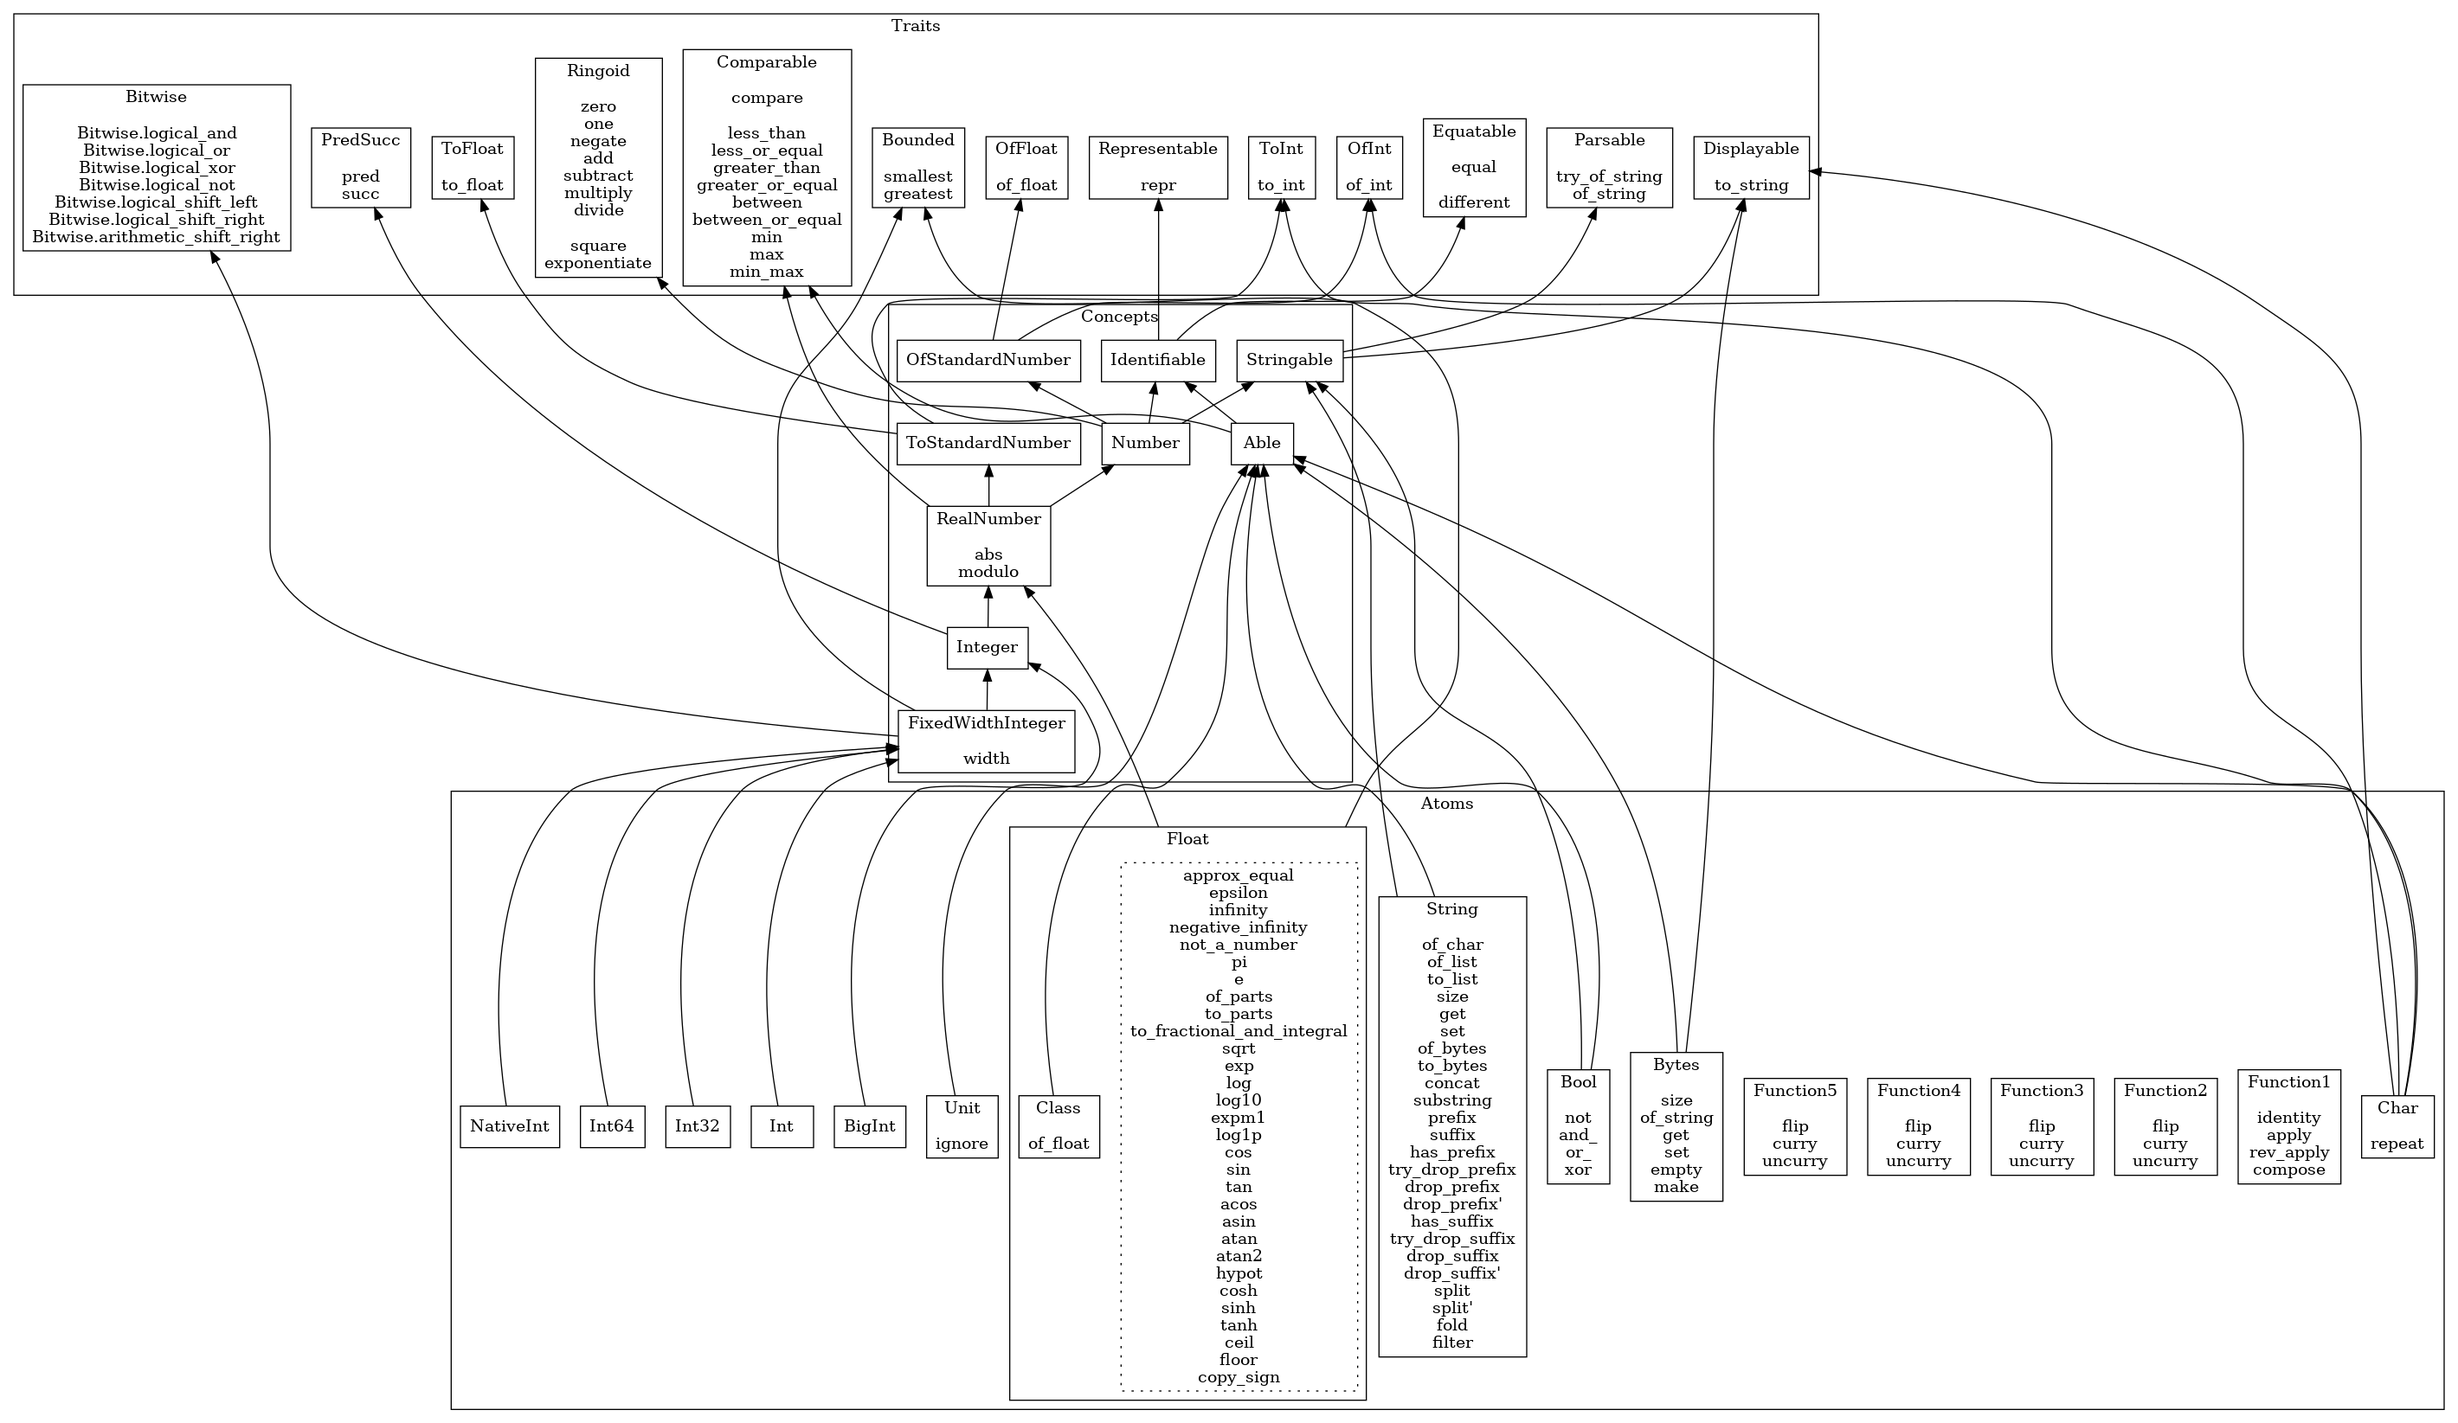
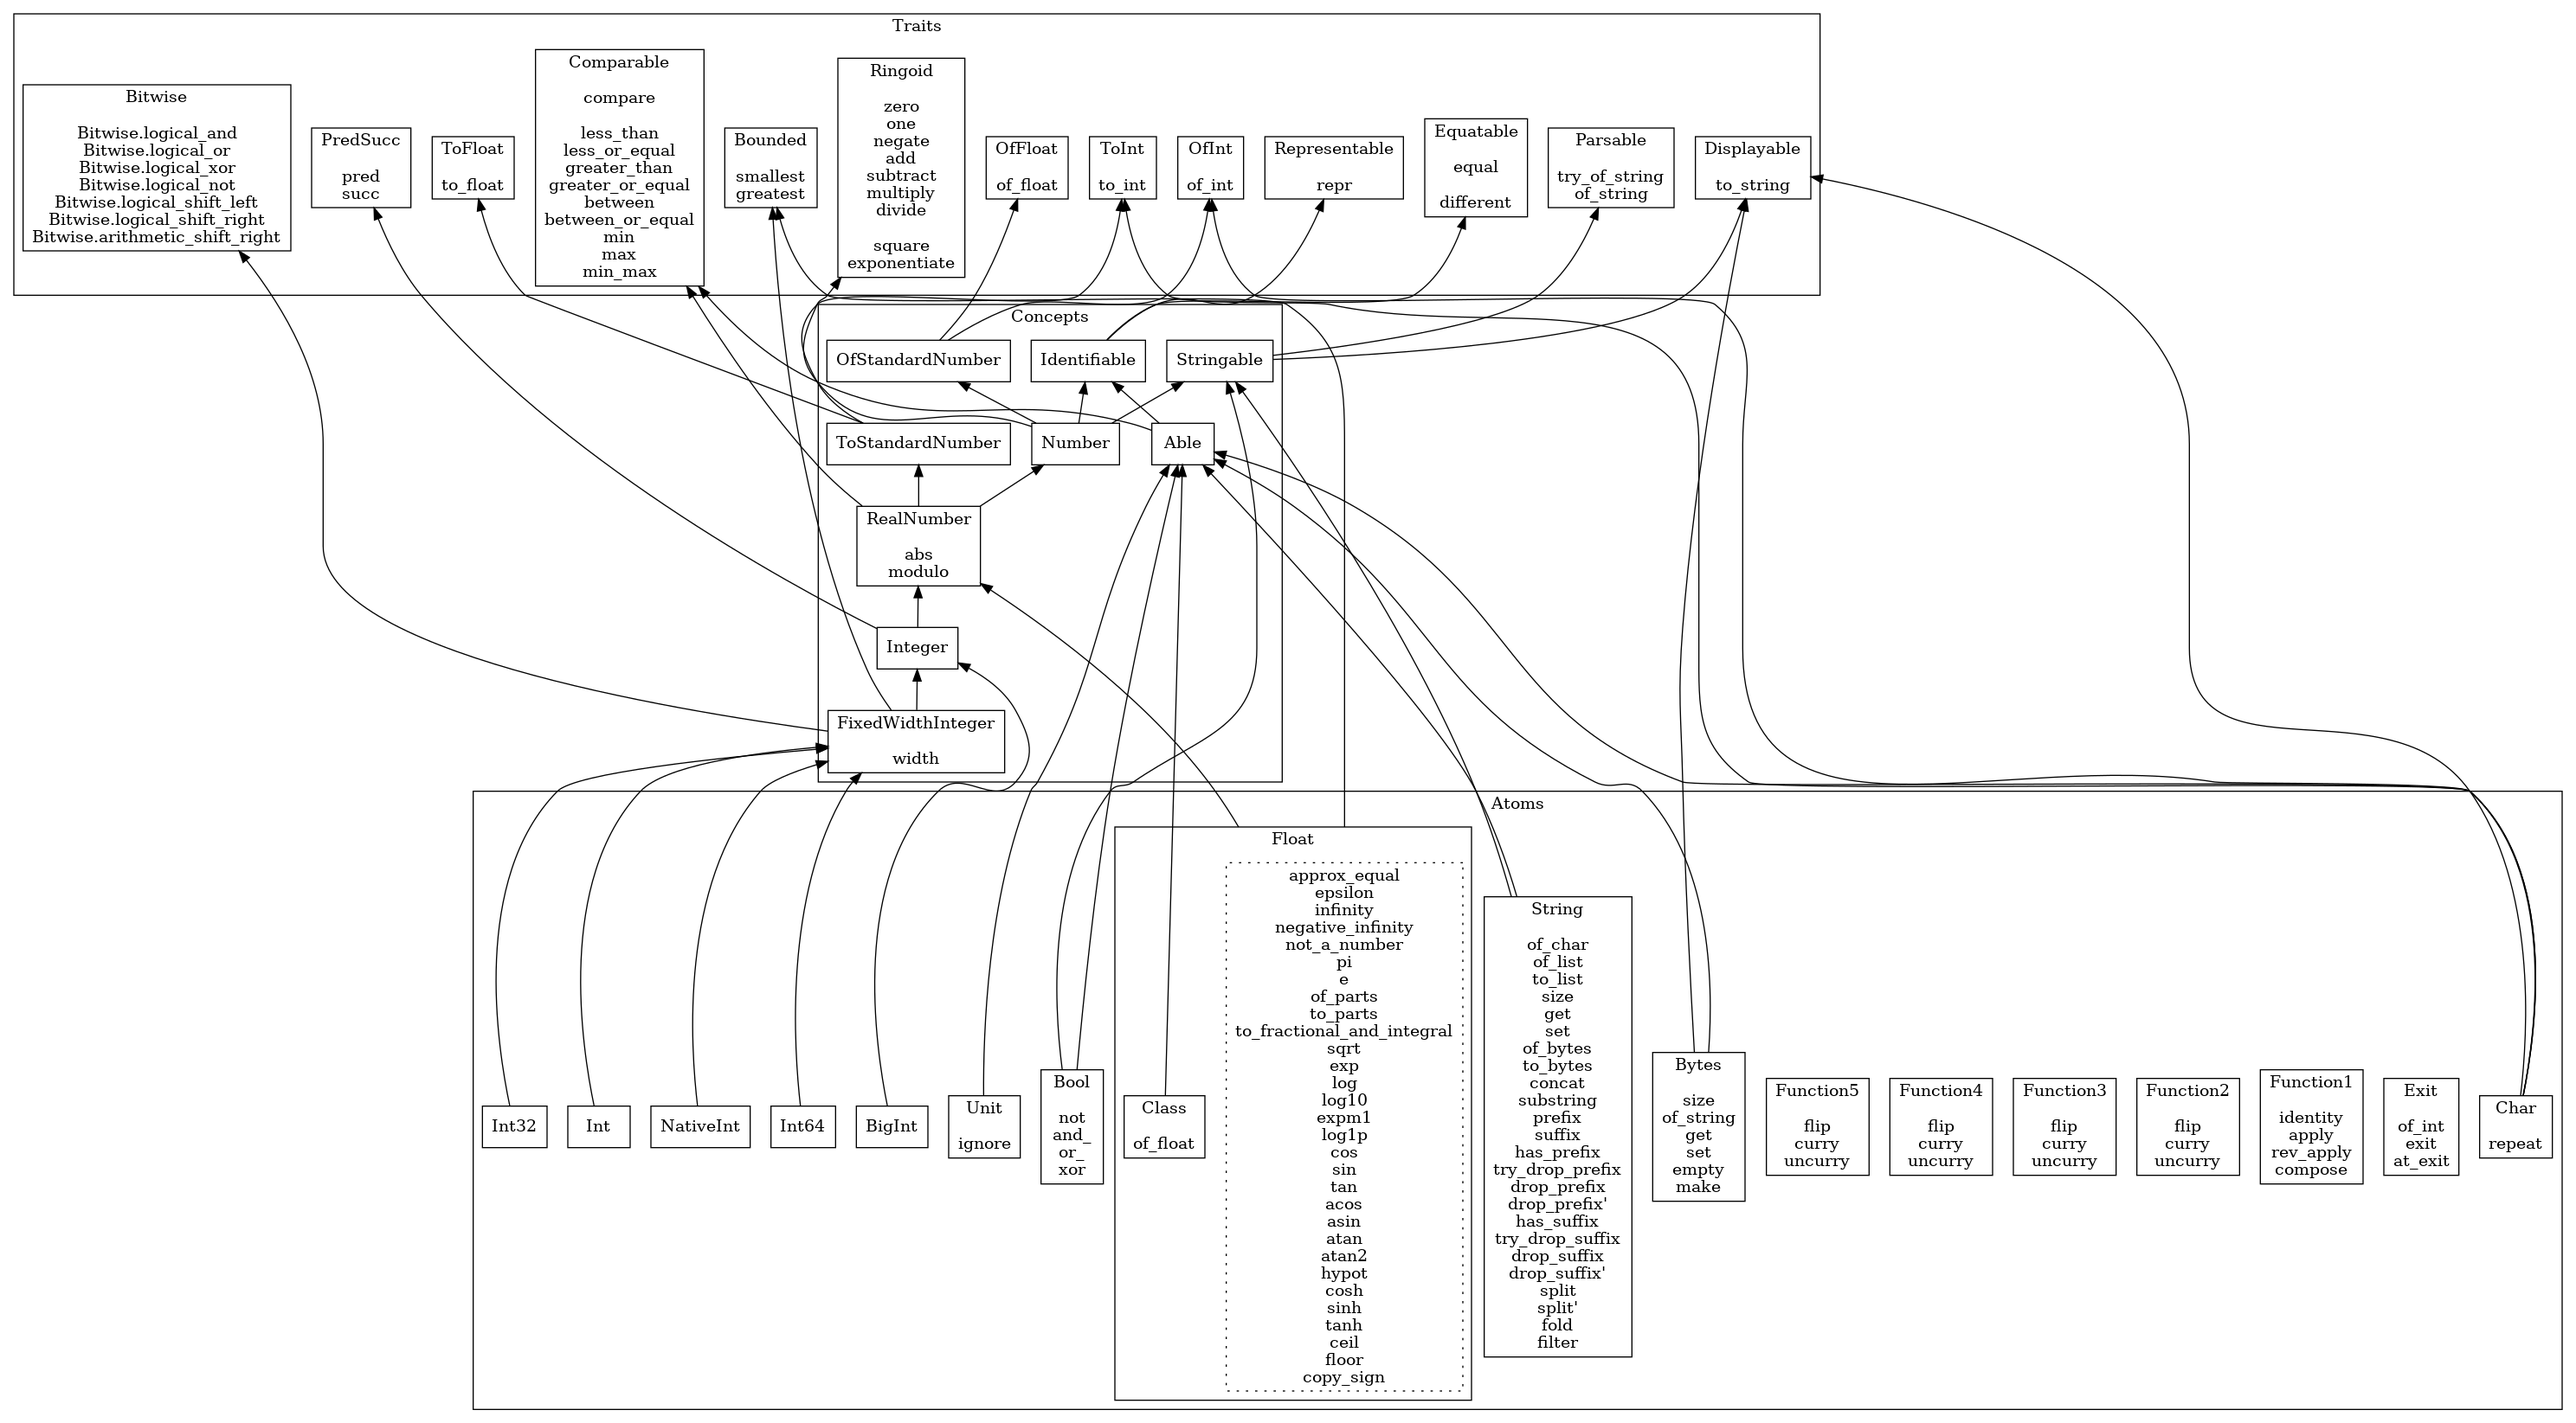
Generate specification for type Exit

Changed region(s): [[0.0, 0.031, 0.7437, 0.8371], [0.4648, 0.496, 0.9915, 0.9921], [0.6507, 0.5271, 0.9606, 0.5581]]

diff --git a/src/geni.py b/src/geni.py
@@ -1115,6 +1115,17 @@ fixed_width_integer = concept(
 
 ###### TYPES ######
 
+exit_ = atom(
+    "Exit",
+    type="Success | Failure of int",
+    # @feature Able
+    values=[
+        val("of_int", "int", t),
+        val("exit", t, "'a"),
+        val("at_exit", "(unit -> unit)", "unit"),
+    ],
+)
+
 function = [
     atom(
         "Function1",
